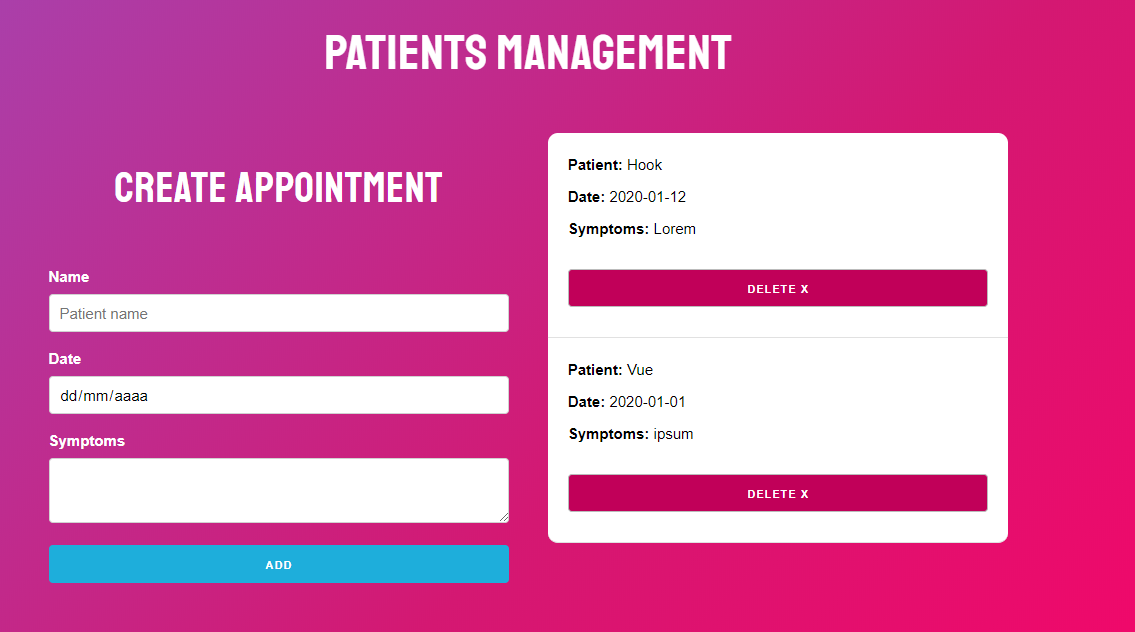
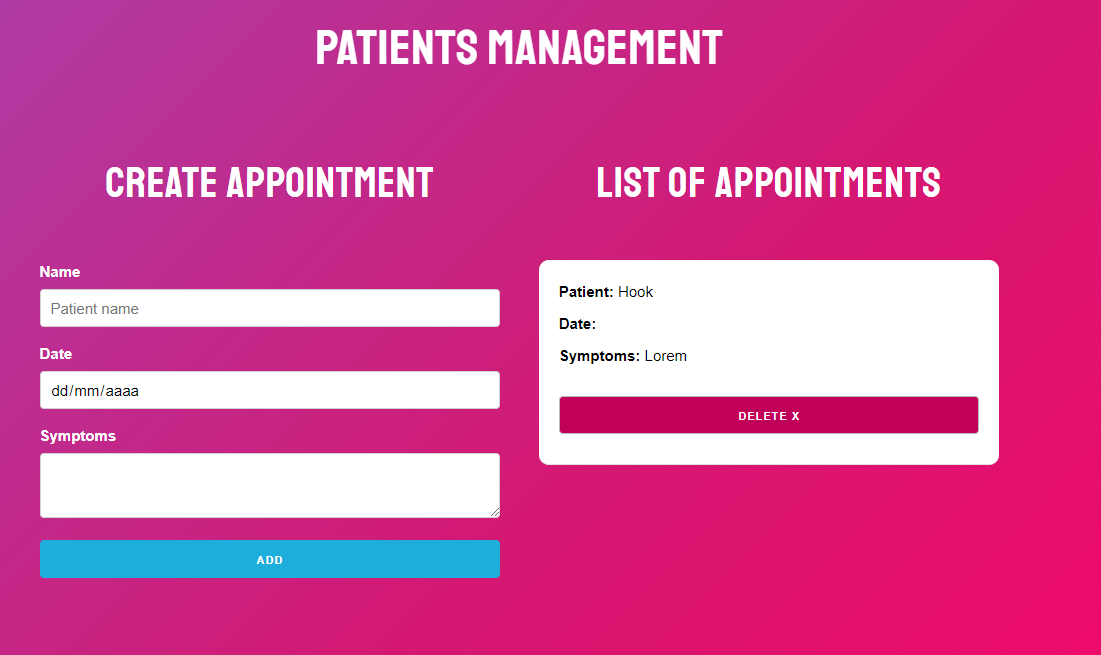
saving data in local storage and updating readme

diff --git a/src/App.js b/src/App.js
@@ -1,10 +1,15 @@
-import React, { useState, Fragment } from 'react';
+import React, { useState, Fragment, useEffect } from 'react';
 import Form from './components/Form';
 import Appointment from "./components/Appointment";
 
 function App() {
 
-  const [appointments, setAppointment] = useState([]);
+  let defaultAppointments = JSON.parse(localStorage.getItem('appointments'));
+  if(!defaultAppointments) {
+    defaultAppointments = [];
+  } 
+
+  const [appointments, setAppointment] = useState(defaultAppointments);
 
   // método para agregar nuevas citas al state
   const addAppointment = (newAppointment) => {
@@ -20,6 +25,19 @@ function App() {
     currentState.splice(index, 1);
     setAppointment(currentState);
   };
+
+  useEffect(
+    () => {
+      let defaultAppointments = JSON.parse(localStorage.getItem('appointments'));
+      if(defaultAppointments) {
+        localStorage.setItem('appointments', JSON.stringify(defaultAppointments));
+      } else {
+        localStorage.setItem('appointments', JSON.stringify([]));
+      }
+      
+      // el segundo parámetro es para indicar cuál componente dispara el useEffect
+    }, [appointments]
+  )
 
   // cargar condicionalmente un título
   const title = Object.keys(appointments).length === 0 ? 'There are not appointments yet' : 'List of appointments';

diff --git a/README.md b/README.md
@@ -1,68 +1,25 @@
-This project was bootstrapped with [Create React App](https://github.com/facebook/create-react-app).
+# Patients Management App
 
-## Available Scripts
+This project was developed in React. It is a webpage that simulates a patients management system
 
-In the project directory, you can run:
+## React items
+I am using different items of React for example:
++ Function components
++ Hooks (useState and useEffect)
++ Local Storage
 
-### `yarn start`
+## Libraries
++ Skeleton
 
-Runs the app in the development mode.<br />
-Open [http://localhost:3000](http://localhost:3000) to view it in the browser.
+## Screenshots
 
-The page will reload if you make edits.<br />
-You will also see any lint errors in the console.
+Home page: main screen
+![](public/00.PNG?raw=true)
 
-### `yarn test`
+Home page: list of added appointments
+![](public/01.PNG?raw=true)
 
-Launches the test runner in the interactive watch mode.<br />
-See the section about [running tests](https://facebook.github.io/create-react-app/docs/running-tests) for more information.
 
-### `yarn build`
 
-Builds the app for production to the `build` folder.<br />
-It correctly bundles React in production mode and optimizes the build for the best performance.
 
-The build is minified and the filenames include the hashes.<br />
-Your app is ready to be deployed!
 
-See the section about [deployment](https://facebook.github.io/create-react-app/docs/deployment) for more information.
-
-### `yarn eject`
-
-**Note: this is a one-way operation. Once you `eject`, you can’t go back!**
-
-If you aren’t satisfied with the build tool and configuration choices, you can `eject` at any time. This command will remove the single build dependency from your project.
-
-Instead, it will copy all the configuration files and the transitive dependencies (Webpack, Babel, ESLint, etc) right into your project so you have full control over them. All of the commands except `eject` will still work, but they will point to the copied scripts so you can tweak them. At this point you’re on your own.
-
-You don’t have to ever use `eject`. The curated feature set is suitable for small and middle deployments, and you shouldn’t feel obligated to use this feature. However we understand that this tool wouldn’t be useful if you couldn’t customize it when you are ready for it.
-
-## Learn More
-
-You can learn more in the [Create React App documentation](https://facebook.github.io/create-react-app/docs/getting-started).
-
-To learn React, check out the [React documentation](https://reactjs.org/).
-
-### Code Splitting
-
-This section has moved here: https://facebook.github.io/create-react-app/docs/code-splitting
-
-### Analyzing the Bundle Size
-
-This section has moved here: https://facebook.github.io/create-react-app/docs/analyzing-the-bundle-size
-
-### Making a Progressive Web App
-
-This section has moved here: https://facebook.github.io/create-react-app/docs/making-a-progressive-web-app
-
-### Advanced Configuration
-
-This section has moved here: https://facebook.github.io/create-react-app/docs/advanced-configuration
-
-### Deployment
-
-This section has moved here: https://facebook.github.io/create-react-app/docs/deployment
-
-### `yarn build` fails to minify
-
-This section has moved here: https://facebook.github.io/create-react-app/docs/troubleshooting#npm-run-build-fails-to-minify
